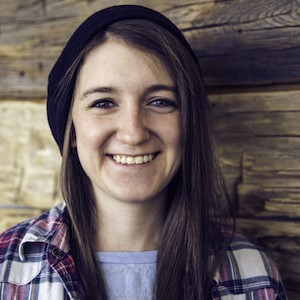
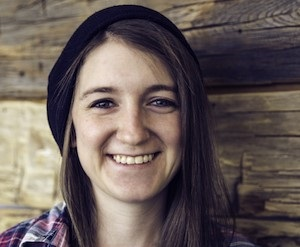
some content change. crop photos for same height

diff --git a/index.html b/index.html
@@ -38,7 +38,7 @@
         </div>
         <main>
             <h1>Hello, Con!</h1>
-            <p>Hello, Con! is a computer science conference held at University of Toronto.</p>
+            <p>Hello, Con! is a software technology conference that will be held at the University of Toronto.</p>
             <p>The goal of the conference is to provide a platform for sharing interesting programming experiences and ideas, expose participants to the real experience of being software developers, and above all, foster and extend the passion for computer
                 science/computer engineering.</p>
             <p>It will be comprised of a series of lightning talks given by selected speakers. Each talk will be on a different topic in the field of programming and computer science. Speakers will be sharing their personal stories, ongoing or completed
@@ -79,7 +79,8 @@
                 </div>
                 <div class="keynote">
                     <img src="data/Ashley.jpg" alt="">
-                    <h2>Ashley Williams: I Can Operating System and So Can You</h2>
+                    <h2>Ashley Williams</h2>
+                    <h3>I Can Operating System and So Can You</h3>
                     <p>Ashley Williams wears a lot of hats, both literally and professionally. She currently works at npm, Inc and is the Individual Membership Director on the Node.js Foundation Board of Directors. Previously a backend and services engineer
                         at Mozilla, and a web engineer and educator at Bocoup, Ashley has a long history of designing, developing, and teaching systems and systems architecture. She is passionate about developer experience and good documentation. In her
                         spare time, she enjoys jokes, continental philosophy, activism, and programming language design.</p>
@@ -110,7 +111,7 @@
                 and more.</p>
         </main>
         <footer class="site-footer">
-            <span class="site-footer-credits">If you're interested in sponsorship or partnership, please email: <a href="mailto:ieeeutstudentbranch@gmail.com">ieeeutstudentbranch@gmail.com</a></span>
+            <span class="site-footer-credits">Contact <a href="mailto:ieeeutstudentbranch@gmail.com">ieeeutstudentbranch@gmail.com</a></span>
             <span class="site-footer-owner"><a href="https://github.com/rainshen49/hellocon">Hellocon</a> is maintained by <a href="https://github.com/rainshen49">rainshen49</a> at <a href="http://ieee.utoronto.ca/about/"><strong>IEEE University of Toronto</strong></a>.</span>
         </footer>
     </section>

diff --git a/submit.html b/submit.html
@@ -55,7 +55,7 @@
             <iframe src="https://docs.google.com/forms/d/e/1FAIpQLSdJ_uMUS4S9ILo6-POVABV0vi3cpR27RQ_YFVaj-4QUOWrERw/viewform" class="Gform" frameborder="0"></iframe>
         </main>
         <footer class="site-footer">
-            <span class="site-footer-credits">If you're interested in sponsorship or partnership, please email: <a href="mailto:ieeeutstudentbranch@gmail.com">ieeeutstudentbranch@gmail.com</a></span>
+            <span class="site-footer-credits">Contact <a href="mailto:ieeeutstudentbranch@gmail.com">ieeeutstudentbranch@gmail.com</a></span>
             <span class="site-footer-owner"><a href="https://github.com/rainshen49/hellocon">Hellocon</a> is maintained by <a href="https://github.com/rainshen49">rainshen49</a> at <a href="http://ieee.utoronto.ca/about/"><strong>IEEE University of Toronto</strong></a>.</span>
         </footer>
     </section>

diff --git a/schedule.html b/schedule.html
@@ -82,7 +82,7 @@
             </div>
         </main>
         <footer class="site-footer">
-            <span class="site-footer-credits">If you're interested in sponsorship or partnership, please email: <a href="mailto:ieeeutstudentbranch@gmail.com">ieeeutstudentbranch@gmail.com</a></span>
+            <span class="site-footer-credits">Contact <a href="mailto:ieeeutstudentbranch@gmail.com">ieeeutstudentbranch@gmail.com</a></span>
             <span class="site-footer-owner"><a href="https://github.com/rainshen49/hellocon">Hellocon</a> is maintained by <a href="https://github.com/rainshen49">rainshen49</a> at <a href="http://ieee.utoronto.ca/about/"><strong>IEEE University of Toronto</strong></a>.</span>
         </footer>
     </section>

diff --git a/speakers.html b/speakers.html
@@ -51,7 +51,7 @@
         <main>
         </main>
         <footer class="site-footer">
-            <span class="site-footer-credits">If you're interested in sponsorship or partnership, please email: <a href="mailto:ieeeutstudentbranch@gmail.com">ieeeutstudentbranch@gmail.com</a></span>
+            <span class="site-footer-credits">Contact <a href="mailto:ieeeutstudentbranch@gmail.com">ieeeutstudentbranch@gmail.com</a></span>
             <span class="site-footer-owner"><a href="https://github.com/rainshen49/hellocon">Hellocon</a> is maintained by <a href="https://github.com/rainshen49">rainshen49</a> at <a href="http://ieee.utoronto.ca/about/"><strong>IEEE University of Toronto</strong></a>.</span>
         </footer>
     </section>
